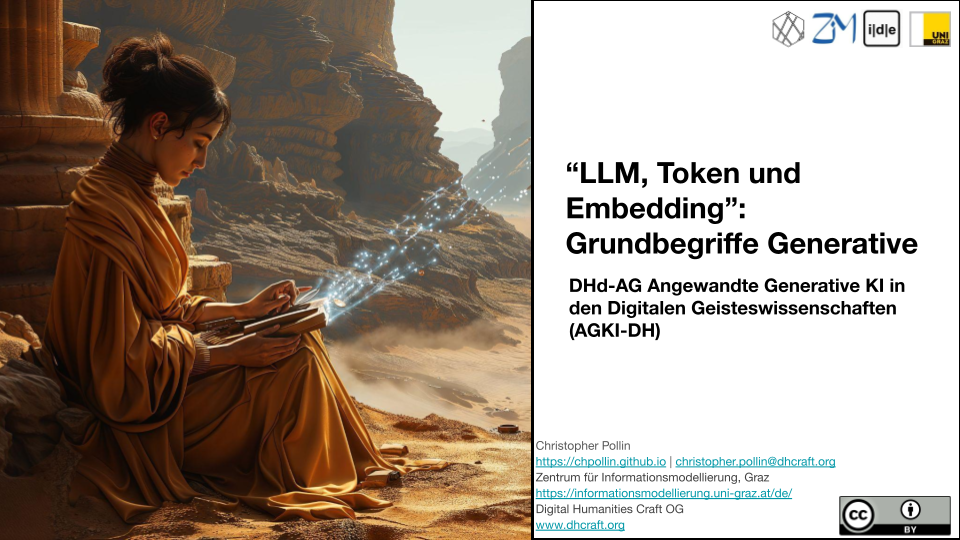
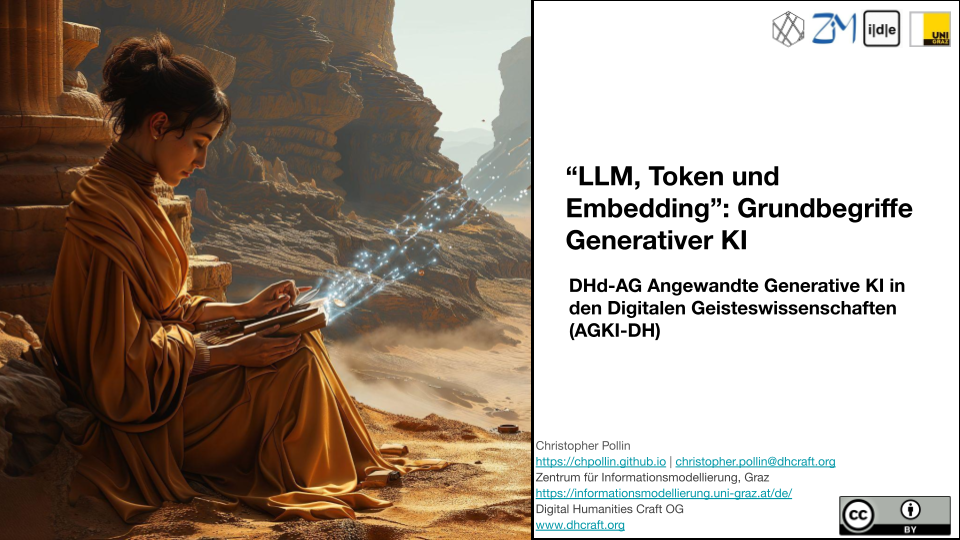
working on page 2 and index

Changed region(s): [[0.5938, 0.2963, 0.9688, 0.4741]]

diff --git a/pages/page-3.html b/pages/page-3.html
@@ -1,20 +1,16 @@
 <!doctype html>
 <html lang="en" data-bs-theme="auto">
   <head>
-    <script src="assets/color-modes.js"></script>
+    <script src="../assets/color-modes.js"></script>
     <meta charset="utf-8">
     <meta name="viewport" content="width=device-width, initial-scale=1">
     <meta name="description" content="The Applied Generative AI in Digital Humanities (AGKI-DH) working group focuses on exploring and showcasing the applications of generative AI, especially Large Language Models (LLMs), in digital humanities. This includes both commercial and open-source models, recognizing the significant advancements and the widespread discussion on AI issues like bias, hallucination, high computational footprint, data security, and potential destructive capabilities. Amidst these challenges, the group aims to harness the opportunities in AI development for digital humanities, fostering an ongoing exchange on core AI concepts and practical experiences. It seeks collaboration with other groups on greening (AI footprint), digital humanities theory, and empowerment (ethical aspects). The goals include identifying, assessing, and categorizing generative AI applications in digital humanities, establishing best practices, developing evaluation criteria, facilitating discussions and knowledge exchange, and balancing opportunities and risks.">
     <meta name="keywords" content="Generative AI, Digital Humanities, Dhd, Large Language Models, Open Source AI, AI in Humanities, Best Practices in AI">
     <meta name="author" content="Christopher Pollin, Gerrit Brüning">
-    <meta property="og:title" content="DHd-AG Angewandte Generative KI in den Digitalen Geisteswissenschaften (AGKI-DH)">
-    <meta property="og:type" content="website">
-    <meta name="twitter:title" content="DHd-AG Angewandte Generative KI in den Digitalen Geisteswissenschaften (AGKI-DH)">
-
     <title>DHd-AG Angewandte Generative KI in den Digitalen Geisteswissenschaften (AGKI-DH)</title>
     <link rel="stylesheet" href="https://cdn.jsdelivr.net/npm/@docsearch/css@3">
     <link href="https://cdn.jsdelivr.net/npm/bootstrap@5.3.3/dist/css/bootstrap.min.css" rel="stylesheet" integrity="sha384-QWTKZyjpPEjISv5WaRU9OFeRpok6YctnYmDr5pNlyT2bRjXh0JMhjY6hW+ALEwIH" crossorigin="anonymous">
-    <link rel="stylesheet" href="assets/style.css">
+    <link rel="stylesheet" href="../assets/style.css">
   </head>
   <body>
     <svg xmlns="http://www.w3.org/2000/svg" class="d-none">
@@ -93,7 +89,7 @@
   </div>
   <div class="navbar navbar-dark bg-dark shadow-sm">
     <div class="container">
-      <a href="#" class="navbar-brand d-flex align-items-center fs-3">
+      <a href="../index.html" class="navbar-brand d-flex align-items-center fs-3"">
         <strong>AGKI-DH</strong>
       </a>
       <button class="navbar-toggler" type="button" data-bs-toggle="collapse" data-bs-target="#navbarHeader" aria-controls="navbarHeader" aria-expanded="false" aria-label="Toggle navigation">
@@ -105,76 +101,33 @@
 
 <main>
 
-  <section class="py-5 container">
+  <section class="py-5 text-center container">
     <div class="row py-lg-5">
-      <div class="col mx-auto">
-        <h1 class="fw-light">DHd-AG Angewandte Generative KI in den Digitalen Geisteswissenschaften (AGKI-DH)</h1>
-        <p class="lead text-body-secondary">Die AG widmet sich der Erforschung und Anwendung generativer KI, insbesondere von Large Language Models (LLMs), in den digitalen Geisteswissenschaften.
-      </div>
-      <div class="col mx-auto py-lg-1">
-        <a href="https://dig-hum.de/">
-          <img src="img/digital-humanities-logo_1.png" alt="DHd Logo">
-        </a>
-        <div class="link-frame">
-          <ul>
-            <li><a href="https://www.zotero.org/groups/5319178/agki-dh">Zotero Bibliothek</a></li>
-            <li><a href="https://dig-hum.de/ag-angewandte-generative-ki-den-digitalen-geisteswissenschaften-agki-dh">DHd AG Seite</a></li>
-          </ul>
-        </div>
+      <div class="col-lg-6 col-md-8 mx-auto">
+        <h1 class="fw-light">Einführung in das Prompt Engineering</h1>
       </div>
     </div>
   </section>
+  <div class="container py-5 ">
 
-  <div class="album py-5 bg-body-tertiary">
-    <div class="container">
-
-      <div class="row row-cols-1 row-cols-sm-2 row-cols-md-3 g-3">
-        <div class="col">
-          <div class="card h-100 shadow-sm">
-            <img src="img/AGKI-DH-Einführung-Prompt-Engineering.png" class="card-img-top" alt="Meeting">
-            <div class="card-body">
-              <p class="card-text">Einführung in das Prompt Engineering <br/> </p>
-              <div class="d-flex justify-content-between align-items-center">
-                <div class="btn-group">
-                    <a href="pages/page-3.html" class="btn btn-sm btn-outline-secondary" role="button">Zum Beitrag</a>
-                </div>
-                <small class="text-body-secondary">17.04.2024</small>
+      <section>
+        <h2>Slides</h2>
+        <div class="row">
+          <div class="col">
+            <iframe src="https://docs.google.com/presentation/d/e/2PACX-1vTMh1ZCPoyyq7TR5tI1jScCflL1RNKpojOeKp-Rbve6mbj__KTjmj1U4zgD38h2X-yg0p1due7npmbN/embed?start=false&loop=false&delayms=3000" frameborder="0" width="960" height="569" allowfullscreen="true" mozallowfullscreen="true" webkitallowfullscreen="true"></iframe>
+            <p class="fst-italic">Pollin, C. (2024). Einführung in das Prompt Engineering. AGKI-AG. https://agki-dh.github.io/pages/page-3.html. CC-BY</p>
+          </div>
+          <div class="col">
+            <h2>Materialien</h2>
+              <div class="link-frame">
+                <ul>
+                  <li><a href="https://github.com/dair-ai/Prompt-Engineering-Guide" target="_blank">Prompt Engineering Guide</a></li>
+                </ul>
               </div>
-            </div>
           </div>
         </div>
-        <div class="col">
-          <div class="card h-100 shadow-sm">
-            <img src="img/AGKI-DH-Grundbegriffe-Generative-24.png" class="card-img-top" alt="Meeting">
-            <div class="card-body">
-              <p class="card-text">“LLM, Token und Embedding”: Grundbegriffe Generativer KI</p>
-              <div class="d-flex justify-content-between align-items-center">
-                <div class="btn-group">
-                    <a href="pages/page-2.html" class="btn btn-sm btn-outline-secondary" role="button">Zum Beitrag</a>
-                </div>
-                <small class="text-body-secondary">12.04.2024</small>
-              </div>
-            </div>
-          </div>
-        </div>
-        <div class="col">
-            <div class="card h-100 shadow-sm">
-              <img src="img/AGKI-DH-DHd24.png" class="card-img-top" alt="Meeting">
-              <div class="card-body">
-                <p class="card-text">Meeting der DHd-AG Angewandte Generative KI in den Digitalen
-                  Geisteswissenschaften (AGKI-DH)</p>
-                <div class="d-flex justify-content-between align-items-center">
-                  <div class="btn-group">
-                    <a href="pages/page-1.html" class="btn btn-sm btn-outline-secondary" role="button">Zum Beitrag</a>
-                  </div>
-                  <small class="text-body-secondary">19.03.2024</small>
-                </div>
-              </div>
-            </div>
-          </div>
-      </div>
+      </section>
     </div>
-  </div>
 
 </main>
 

diff --git a/pages/page-2.html b/pages/page-2.html
@@ -10,7 +10,7 @@
     <title>DHd-AG Angewandte Generative KI in den Digitalen Geisteswissenschaften (AGKI-DH)</title>
     <link rel="stylesheet" href="https://cdn.jsdelivr.net/npm/@docsearch/css@3">
     <link href="https://cdn.jsdelivr.net/npm/bootstrap@5.3.3/dist/css/bootstrap.min.css" rel="stylesheet" integrity="sha384-QWTKZyjpPEjISv5WaRU9OFeRpok6YctnYmDr5pNlyT2bRjXh0JMhjY6hW+ALEwIH" crossorigin="anonymous">
-    <link rel="stylesheet" href="assets/style.css">
+    <link rel="stylesheet" href="../assets/style.css">
   </head>
   <body>
     <svg xmlns="http://www.w3.org/2000/svg" class="d-none">
@@ -71,15 +71,18 @@
       <div class="row">
         <div class="col-sm-8 col-md-7 py-4">
           <h4>About</h4>
-          <p class="text-body-secondary">Add some information about the album below, the author, or any other background context. Make it a few sentences long so folks can pick up some informative tidbits. Then, link them off to some social networking sites or contact information.</p>
+          <p class="text-body-secondary">
+            Convenor:<br/>
+            Christopher Pollin<br/>
+            ZIM, Universität Graz<br/>
+            christopher.pollin@uni-graz.at<br/>
+            <br/>
+            Gerrit Brüning<br/>
+            Klassik Stiftung Weimar<br/>
+            gerrit.bruening@klassik-stiftung.de</p>
         </div>
         <div class="col-sm-4 offset-md-1 py-4">
-          <h4>Contact</h4>
-          <ul class="list-unstyled">
-            <li><a href="#" class="text-white">Follow on Twitter</a></li>
-            <li><a href="#" class="text-white">Like on Facebook</a></li>
-            <li><a href="#" class="text-white">Email me</a></li>
-          </ul>
+          
         </div>
       </div>
     </div>
@@ -112,14 +115,16 @@
         <div class="row">
           <div class="col">
             <iframe src="https://docs.google.com/presentation/d/e/2PACX-1vTTp050Nfw2c-NFSQrl-gyJE3rXew7JwNq19Oc_s4xBha-P34Cs1OJaAvJDurUXyMBnLXA7rNAn0Tah/embed?start=false&loop=false&delayms=3000" frameborder="0" width="960" height="569" allowfullscreen="true" mozallowfullscreen="true" webkitallowfullscreen="true"></iframe>
-            <p class="fst-italic">This entire sentence is italicized for emphasis.</p>
+            <p class="fst-italic">Pollin, C. (2024). “LLM, Token und Embedding”: Grundbegriffe Generative. AGKI-AG. https://agki-dh.github.io/pages/page-3.html. CC-BY</p>
           </div>
           <div class="col">
-            <h2>List Example</h2>
-        <ul class="list-group">
-          <li class="list-group-item"><a href="https://youtu.be/zjkBMFhNj_g?si=qsvAeCFcG71JYsUh" target="_blank">Andrej Karpathy. [1hr Talk] Intro to Large Language Models</a></li>
-          <li class="list-group-item"><a href="https://youtu.be/zduSFxRajkE?si=xo5ZP-toL4fSNQQK" target="_blank">Andrej Karpathy. Let's build the GPT Tokenizer</a></li>
-        </ul>
+          <h2>Materialien</h2>
+            <div class="link-frame">
+              <ul>
+                <li><a href="https://youtu.be/zjkBMFhNj_g?si=qsvAeCFcG71JYsUh" target="_blank">Andrej Karpathy. [1hr Talk] Intro to Large Language Models</a></li>
+                <li><a href="https://youtu.be/zduSFxRajkE?si=xo5ZP-toL4fSNQQK" target="_blank">Andrej Karpathy. Let's build the GPT Tokenizer</a></li>
+              </ul>
+            </div>
           </div>
         </div>
       </section>
@@ -129,9 +134,6 @@
 
 <footer class="text-body-secondary py-5">
   <div class="container">
-    <p class="float-end mb-1">
-      <a href="#">Back to top</a>
-    </p>
     <p class="mb-1">AG Angewandte Generative KI in den Digitalen Geisteswissenschaften (AGKI-DH)</p>
     <p class="mb-1">2024. Convenors: Christopher Pollin, Gerrit Brüning</p>
     <p class="mb-0">Based on <a href="https://getbootstrap.com/">Bootstrap 5</a></p>

diff --git a/pages/page-1.html b/pages/page-1.html
@@ -10,7 +10,7 @@
     <title>DHd-AG Angewandte Generative KI in den Digitalen Geisteswissenschaften (AGKI-DH)</title>
     <link rel="stylesheet" href="https://cdn.jsdelivr.net/npm/@docsearch/css@3">
     <link href="https://cdn.jsdelivr.net/npm/bootstrap@5.3.3/dist/css/bootstrap.min.css" rel="stylesheet" integrity="sha384-QWTKZyjpPEjISv5WaRU9OFeRpok6YctnYmDr5pNlyT2bRjXh0JMhjY6hW+ALEwIH" crossorigin="anonymous">
-    <link rel="stylesheet" href="assets/style.css">
+    <link rel="stylesheet" href="../assets/style.css">
   </head>
   <body>
     <svg xmlns="http://www.w3.org/2000/svg" class="d-none">
@@ -83,24 +83,18 @@
           <div class="row">
             <div class="col-sm-8 col-md-7 py-4">
               <h4>About</h4>
-              <p class="text-body-secondary">Add some information about the album below, the author,
-                or any other background context. Make it a few sentences long so folks can pick up
-                some informative tidbits. Then, link them off to some social networking sites or
-                contact information.</p>
+              <p class="text-body-secondary">
+                Convenor:<br/>
+                Christopher Pollin<br/>
+                ZIM, Universität Graz<br/>
+                christopher.pollin@uni-graz.at<br/>
+                <br/>
+                Gerrit Brüning<br/>
+                Klassik Stiftung Weimar<br/>
+                gerrit.bruening@klassik-stiftung.de</p>
             </div>
             <div class="col-sm-4 offset-md-1 py-4">
-              <h4>Contact</h4>
-              <ul class="list-unstyled">
-                <li>
-                  <a href="#" class="text-white">Follow on Twitter</a>
-                </li>
-                <li>
-                  <a href="#" class="text-white">Like on Facebook</a>
-                </li>
-                <li>
-                  <a href="#" class="text-white">Email me</a>
-                </li>
-              </ul>
+              
             </div>
           </div>
         </div>
